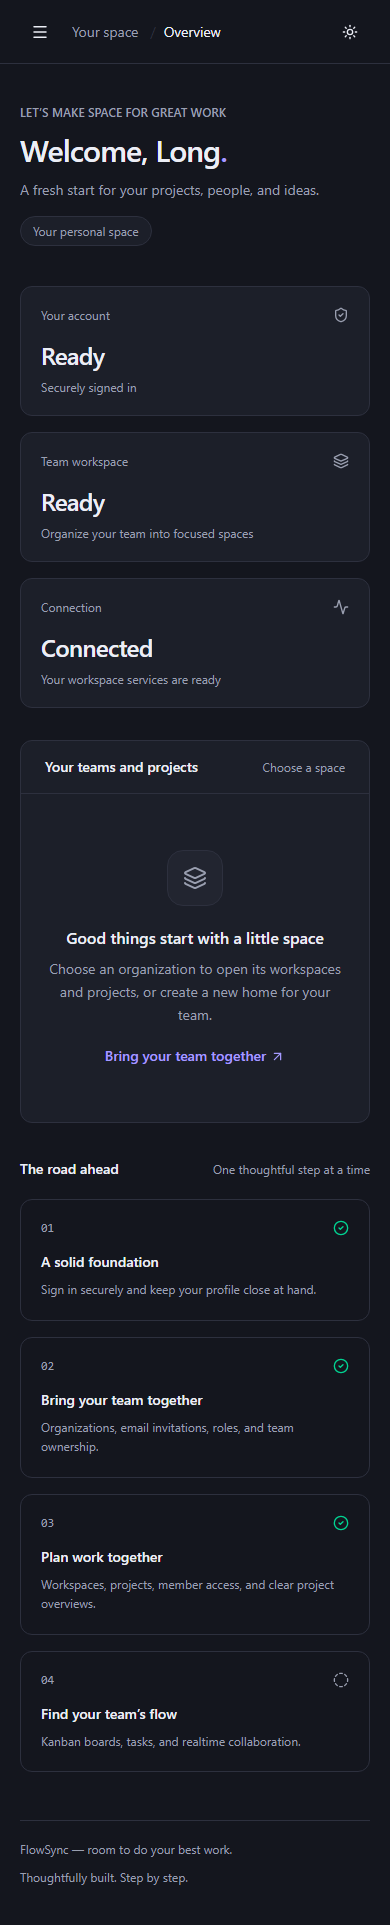
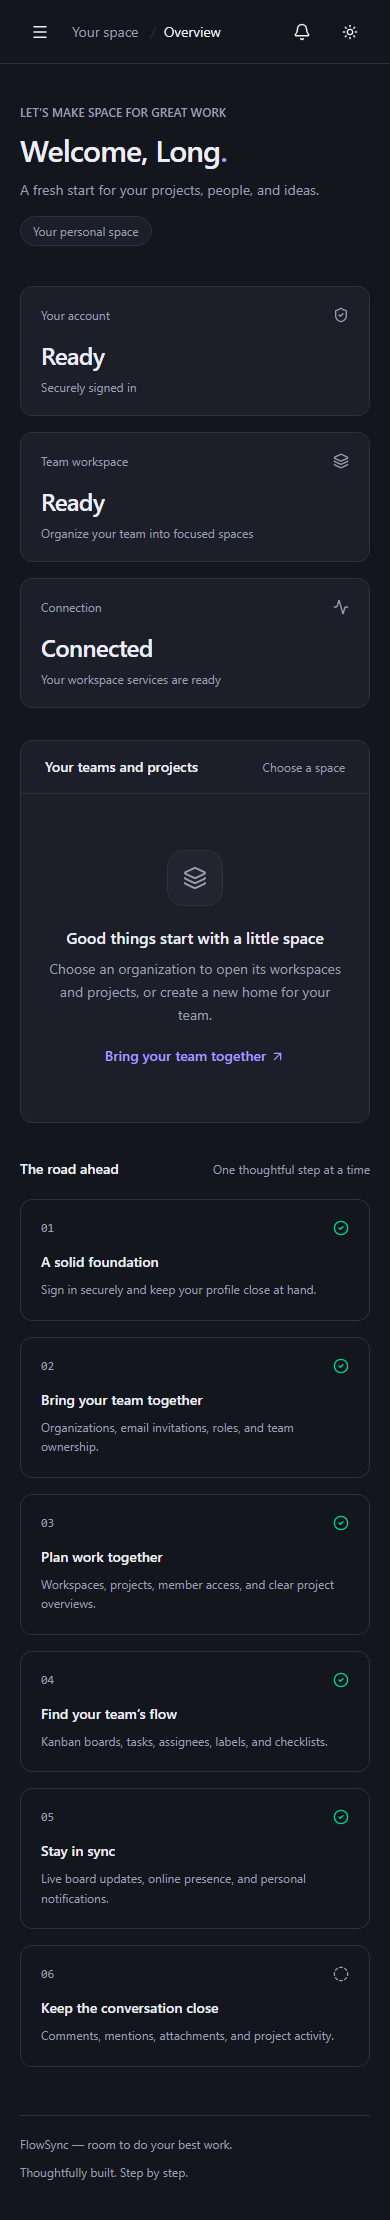
docs: record verified realtime milestone and refresh browser evidence

diff --git a/tests/browser/kanban.spec.ts b/tests/browser/kanban.spec.ts
@@ -168,6 +168,10 @@ test('board management, task details, drag and drop, keyboard sorting and rollba
       });
     });
     async function dragToBlocked() {
+      await expect(handle).toBeEnabled();
+      await page.evaluate(
+        () => new Promise<void>((resolve) => requestAnimationFrame(() => resolve())),
+      );
       const source = await handle.boundingBox();
       const target = await canvas
         .getByRole('region', { name: 'Blocked', exact: true })
@@ -225,6 +229,7 @@ test('board management, task details, drag and drop, keyboard sorting and rollba
   } finally {
     if (organizationId) {
       const projects = { workspace: { organizationId } };
+      await prisma.activity.deleteMany({ where: { organizationId } });
       await prisma.task.deleteMany({ where: { column: { board: { project: projects } } } });
       await prisma.column.deleteMany({ where: { board: { project: projects } } });
       await prisma.board.deleteMany({ where: { project: projects } });

diff --git a/docs/verification.md b/docs/verification.md
@@ -1,6 +1,6 @@
-# Phase 4 verification — 06/10/2026
+# Phase 5 verification — 06/10/2026
 
-Đã hoàn thành Phase 1–4 theo Requirements.md, gồm organization/logo/invitations và private workspace/project CRUD, members, project owner transfer, status/date validation và overview. Chưa hoàn thành toàn bộ MVP ở mục 34; Realtime/collaboration ở các phase sau.
+Đã hoàn thành Phase 1–5 theo Requirements.md. Realtime, Redis presence và transactional notifications đã được kiểm tra. Phase 6 collaboration đang triển khai; chưa hoàn thành toàn bộ MVP ở mục 34.
 
 | Check                       | Kết quả                                                                                           |
 | --------------------------- | ------------------------------------------------------------------------------------------------- |
@@ -10,8 +10,8 @@
 | ESLint / Prettier           | Pass                                                                                              |
 | Production build            | Pass cho Next.js và NestJS                                                                        |
 | Unit/security tests         | 16 pass: auth, RBAC, scope policy, PATCH omission, encryption and Kanban contracts                |
-| HTTP integration tests      | 44 pass on real PostgreSQL/Redis/MinIO/Mailpit                                                    |
-| Browser tests               | 8 pass on local builds and Linux Docker containers                                                |
+| HTTP integration tests      | 52 verified on real PostgreSQL/Redis/MinIO/Mailpit (51-case suite + added Redis recovery case)    |
+| Browser tests               | 9 verified on local builds and Linux Docker containers                                            |
 | Docker targets              | API, web, migrator, worker và source-built MinIO build thành công                                 |
 | Compose runtime             | API/PostgreSQL/Redis/MinIO/Mailpit healthy; web/worker chạy; init exit 0                          |
 
@@ -28,3 +28,5 @@ Repository đã kết nối [GitHub FlowSync](https://github.com/itzBaowy/FlowSy
 Phase 3 verifies workspace/project CRUD, private memberships, persisted date invariants, ownership concurrency, public profiles, descendant cleanup, structural delete protection and actual overview data. Browser tests cover CRUD/mobile and two-account membership/owner transfer/access revocation. Delivery outboxes are isolated by NODE_ENV.
 
 Phase 4 adds scoped board/column/task CRUD, multiple assignees, project labels, checklist versions, archive/restore and transactional fractional ranking. Browser verification covers pointer and keyboard moves, empty columns, persistent ordering, optimistic state before a held response, 409 rollback and mobile layout. API tests include concurrent moves/edits/reorders and private scope boundaries. Docker API/web/migrator/worker and the browser suite are verified at this milestone.
+
+Phase 5 verifies authenticated Socket.IO, Redis fanout between API replicas, post-commit board events, immediate membership revocation, token expiry, distributed presence leases/caps, persisted recipient-scoped notifications and web reconnect/inbox/deep-link flows. See [Phase 5](phase5.md) for delivery limits and exact verification scope.

diff --git a/README.md b/README.md
@@ -2,7 +2,7 @@
 
 A team collaboration platform bringing projects, Kanban boards, conversations, and a future AI assistant into one calm workspace. Built as a fullstack engineering portfolio with explicit tenant boundaries and production deployment in mind.
 
-**Current delivery: Phase 4 — Kanban.** Secure accounts/sessions, organizations/logos, invitations and roles, private workspaces/projects, scoped membership, ownership transfer, project overviews and Kanban task management. Realtime and collaboration follow next. AI intentionally follows the MVP.
+**Current delivery: Phase 5 — Realtime; Phase 6 in progress.** Secure accounts/sessions, organizations/logos, invitations and roles, private workspaces/projects, scoped membership, ownership transfer, Kanban tasks, live board updates, distributed presence and personal notifications. AI follows the collaboration MVP.
 
 ## Features shipped
 
@@ -15,6 +15,7 @@ A team collaboration platform bringing projects, Kanban boards, conversations, a
 - Workspace/project CRUD with private membership boundaries, OWNER/ADMIN management, project owner controls, status/date validation and paginated lists. Member removal clears descendant memberships and assignments.
 - Real project overview with task/completed/overdue/member counts and recent activity; responsive workspace/project settings and membership screens.
 - Scoped boards and custom columns; task CRUD, priority/due dates, multiple assignees, project labels, checklists and archive/restore. Pointer and keyboard drag/drop with optimistic rollback, task versions and board revisions prevent lost updates.
+- JWT-authenticated Socket.IO with Redis fanout across API replicas, immediate board access revocation, expiring presence leases and reconnect recovery. Transactional task notifications with a live unread badge, paginated inbox, read controls and task deep links.
 - Single-use, seven-day invitations with matching-email acceptance. Durable encrypted delivery outbox, BullMQ retry worker and local Mailpit SMTP capture.
 - PostgreSQL + Prisma 7 schema for the complete planned domain, checked-in initial migration.
 - Docker Compose PostgreSQL, Redis, private MinIO bucket, Mailpit, migration job, frontend, backend and worker containers. Random local secrets generated by setup.
@@ -41,7 +42,9 @@ flowchart LR
   API --> DB[(PostgreSQL)]
   API --> Redis[(Redis / rate limiting and BullMQ)]
   API --> Storage[MinIO / S3]
-  Web -. future Socket.IO .-> Gateway[Realtime Gateway]
+  Web -->|Socket.IO| Gateway[Realtime Gateway]
+  Gateway --> DB
+  Gateway --> Redis
   API --> Outbox[Encrypted PostgreSQL email outbox]
   Outbox --> Worker[Background email worker]
   Redis --> Worker

diff --git a/docs/phase5.md b/docs/phase5.md
@@ -1,0 +1,13 @@
+# Phase 5 — Realtime
+
+Hoàn thành ngày 06/10/2026. 16 unit/security tests, 52 HTTP integration cases và 9 browser flows đạt (HTTP suite 51 cases, sau đó thêm và chạy lại case Redis subscription recovery). Typecheck/lint/format/production builds đạt. API/web/migrator/worker đã rebuild và chạy Docker; 8 browser cases đạt trong suite Docker, Kanban case được sửa để chờ mutation trước khi drag và chạy lại đạt.
+
+Socket.IO namespace `/realtime` chỉ nhận access JWT trong handshake auth, kiểm tra origin, expiry và user tồn tại. Không nhận room name do client tự chọn; board UUID và membership cha được kiểm tra khi join, trước board/presence delivery và trong heartbeat. Membership removal tăng board revisions, xóa assignments kèm task version và thu hồi room ngay. Access token hết hạn khiến connection đóng; web refresh rồi xác thực lại.
+
+Redis adapter chia sẻ board events giữa API replicas. Mutation cập nhật version/revision trong transaction và chỉ publish sau commit; rollback không gửi event. Events chứa revision, không phát private task content. Client bỏ qua revision cũ, refetch khi nhận revision mới hoặc reconnect, và kiểm tra REST mỗi 30 giây để phục hồi event cuối bị mất. Redis fanout chưa có durable outbox.
+
+Presence dùng Redis leases 45 giây, heartbeat 15 giây và WebSocket ping timeout để phát hiện mất mạng. Nhiều tab được gộp theo user; profiles và count lọc lại current membership. Connection cap 10/user, board subscriptions tối đa 5/connection và request/connect rate limits. Redis command errors không bị bỏ qua; join thất bại dọn partial subscription và có thể retry.
+
+Task assignment/update tạo notifications trong cùng transaction, loại actor khỏi recipients, giữ dữ liệu khi offline rồi fanout tín hiệu riêng theo user. List/count/read endpoints chỉ trả notifications của chính user và task còn accessible. Bell có pagination, unread filter, read/unread/read-all và deep link mở task; hoạt động cả ngoài board. Comment/mention alerts được nối ở Phase 6; due-date jobs và các notification delivery nâng cao ở Phase 7.
+
+Browser kiểm tra hai users thấy task changes và open panel updates, presence deduplication, offline/reconnect, dashboard notification delivery, read controls, task deep links và membership revocation. HTTP kiểm tra JWT/origin, expiry, hai API replicas, rollback, Redis fault injection, connection caps và private notification scope.

diff --git a/docs/architecture.md b/docs/architecture.md
@@ -106,7 +106,7 @@ Chặn remove/demote owner cuối cùng trong transaction, owner transfer atomic
 
 Task move gửi taskId, columnId, beforeTaskId, expectedVersion và expectedRevision. Service xác minh membership và cùng board; transaction khóa organization → workspace → project → board (`FOR UPDATE`), tính Decimal rank, reindex khi gap hết precision, update task version + board revision. Request revision cũ nhận 409; client rollback và refetch snapshot. Activity và realtime được nối ở Phase 5–6.
 
-Publish chỉ sau commit; sự kiện gồm boardId, revision, mutationId, task changes. UI optimistic + rollback on failure; dedupe theo mutationId, ignore revision cũ; revision gap hoặc reconnect thì refetch. Gateway xác thực JWT, kiểm tra permission khi join room; không cho client chọn tùy ý room. Token expiry khiến connection cần re-authentication. Redis Socket.IO adapter fanout nhiều replicas; Redis TTL heartbeat cho presence, không chỉ dùng process memory. Outbox là nâng cấp khi cần đảm bảo delivery giữa commit và emit.
+Publish chỉ sau commit; sự kiện chứa boardId, revision và optional deleted, không mang task content. UI bỏ qua revision cũ và refetch REST khi nhận revision mới, reconnect hoặc mỗi 30 giây để phục hồi event bị mất. Gateway xác thực access JWT ở handshake, kiểm tra membership hiện tại khi join và trước delivery; membership mutations tăng revision và đẩy revocation ngay. Token expiry disconnect connection; client refresh single-flight và xác thực lại. Redis Socket.IO adapter fanout nhiều replicas. Presence có heartbeat 15 giây, lease 45 giây, deduplicate nhiều tab và cap 10 connections/user qua Redis. Board join lỗi không giữ subscription một phần và có retry. Transactional notifications chỉ fanout tín hiệu tới recipient; REST kiểm tra scope hiện tại trước khi trả nội dung. Event fanout là best effort; durable event outbox là nâng cấp nếu cần bảo đảm delivery.
 
 ## G. BullMQ
 

diff --git a/docs/roadmap.md b/docs/roadmap.md
@@ -6,7 +6,7 @@
 | 2 — Organization (hoàn thành)       | CRUD + logo, membership, owner transfer, RBAC, invitation email/accept/revoke | Cross-tenant/RBAC, concurrency, SMTP và browser flow đã kiểm tra                                 |
 | 3 — Project management (hoàn thành) | Workspace/project CRUD + membership/transfer, overview                        | Private scopes, date PATCH, 2-account browser access revocation đã kiểm tra                      |
 | 4 — Kanban (hoàn thành)             | Board/column/task CRUD, assignment, labels, checklist, archive, dnd-kit       | Thứ tự bền vững, cross-board move bị chặn, optimistic rollback, concurrency tests                |
-| 5 — Realtime                        | Socket.IO auth + Redis adapter, board rooms, notification, presence           | Hai browser nhận update; reconnect/gap recovery; room permission + token expiry                  |
+| 5 — Realtime (hoàn thành)           | Socket.IO auth + Redis adapter, board rooms, notification, presence           | Hai browser nhận update; reconnect/gap recovery; room permission + token expiry đã kiểm tra      |
 | 6 — Collaboration / MVP done        | Comments/mentions, activity, attachments, search, inbox, personal tasks       | Flow mục 34 chạy end-to-end; mention notifications, download permission, MIME/size checks        |
 | 7 — Queue hardening                 | Worker deployment, retry/idempotency, email/maintenance/file jobs             | Duplicate delivery không duplicate side effect; retries/failure observability                    |
 | 8 — AI                              | Provider abstraction, summary/overdue, meeting-note suggestions               | Validated JSON, context tenant scoped, confirmation trước task creation                          |
